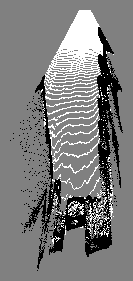
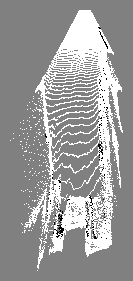
feat: add option to use pointcloud slice as obstacle in -> 2d conversion

diff --git a/mapper.py b/mapper.py
@@ -420,6 +420,33 @@ def save_pointcloud_to_ply(points, filename):
         for p in points:
             f.write(f'{p[0]} {p[1]} {p[2]}\n')
 
+def _parse_obstacle_threshold(obstacle_threshold):
+    """
+    Parse obstacle threshold configuration.
+
+    Args:
+        obstacle_threshold: Either a single numeric value (scalar threshold)
+            or a 2-element iterable (min_height, max_height).
+
+    Returns:
+        tuple[str, float | tuple[float, float]]:
+            ("scalar", threshold) or ("range", (min_height, max_height)).
+    """
+    if isinstance(obstacle_threshold, (int, float, np.integer, np.floating)):
+        return "scalar", float(obstacle_threshold)
+
+    if isinstance(obstacle_threshold, (tuple, list, np.ndarray)) and len(obstacle_threshold) == 2:
+        min_height = float(obstacle_threshold[0])
+        max_height = float(obstacle_threshold[1])
+        if min_height > max_height:
+            min_height, max_height = max_height, min_height
+        return "range", (min_height, max_height)
+
+    raise TypeError(
+        "obstacle_threshold must be a numeric value or a 2-element range "
+        "(min_height, max_height)."
+    )
+
 def pointcloud_to_occupancy_grid(pointcloud, grid_size, grid_resolution, height_range=(-0.5, 2.0), obstacle_threshold=0.1, use_data_bounds=True, padding=0.5):
     """
     Convert a 3D point cloud to a 2D occupancy grid.
@@ -429,7 +456,9 @@ def pointcloud_to_occupancy_grid(pointcloud, grid_size, grid_resolution, height_
         grid_size (tuple): (width, height) of the occupancy grid in meters. Used only when use_data_bounds=False.
         grid_resolution (float): Size of each grid cell in meters.
         height_range (tuple): (min, max) height to consider for obstacles/freespace (relative to camera Y).
-        obstacle_threshold (float): Height threshold to consider a cell occupied.
+        obstacle_threshold (float | int | tuple | list):
+            Either a single height threshold (occupied if height > threshold)
+            or a 2-value range (occupied if min_height <= height <= max_height).
         use_data_bounds (bool): If True, compute grid bounds from point cloud data (mirrors pointcloud_to_occupancy_grid.py).
         padding (float): Padding (meters) to add around data bounds when use_data_bounds=True.
     
@@ -521,9 +550,16 @@ def pointcloud_to_occupancy_grid(pointcloud, grid_size, grid_resolution, height_
     np.maximum.at(height_grid_flat, flat_indices, valid_y)
     height_grid = height_grid_flat.reshape(grid_h, grid_w)
 
-    # Mark occupied cells (cells with obstacles above threshold)
-    occupancy_grid[height_grid > obstacle_threshold] = 1
-    occupancy_grid[height_grid <= obstacle_threshold] = 0
+    # Mark occupied cells using scalar threshold or inclusive height range
+    threshold_mode, threshold_value = _parse_obstacle_threshold(obstacle_threshold)
+    if threshold_mode == "scalar":
+        occupied_mask = height_grid > threshold_value
+    else:
+        min_height, max_height = threshold_value
+        occupied_mask = (height_grid >= min_height) & (height_grid <= max_height)
+
+    occupancy_grid[occupied_mask] = 1
+    occupancy_grid[~occupied_mask] = 0
 
     # Mark cells with no data as unknown
     visited_flat = np.zeros(grid_h * grid_w, dtype=bool)

diff --git a/example_single_center_multiview.py b/example_single_center_multiview.py
@@ -14,7 +14,8 @@ from mapper import (
     image_to_3d_pointcloud,
     pointcloud_to_occupancy_grid,
     _process_occupancy_grid,
-    visualize_occupancy_grid
+    visualize_occupancy_grid,
+    save_pointcloud_to_ply,
 )
 
 from frontier_utils import (
@@ -109,7 +110,7 @@ def main():
         # ('images_surroundings/min_88.jpeg', convert_angle_180_to_360(-88)),
         ('images_surroundings/min_141.jpeg', convert_angle_180_to_360(-141)),
         # ('images_surroundings/plus_149.jpeg', convert_angle_180_to_360(149)),
-        ('images_surroundings/plus_157.jpeg', convert_angle_180_to_360(157)),
+        # ('images_surroundings/plus_157.jpeg', convert_angle_180_to_360(157)),
     ]
     
     # 2. Load Model
@@ -125,17 +126,19 @@ def main():
         print("Error: Could not read image.")
         return
     h, w = dummy_img.shape[:2]
+    
     intrinsics = {
-        'fx': 470.4 * 1.5,
-        'fy': 470.4 * 1.5,
-        'cx': w / 2.0,
-        'cy': h / 2.0
+        "fx": 589.54200724,
+        "fy": 589.80048532,
+        "cx": 328.93066342,
+        "cy": 200.86625768 * 0.85,
     }
 
     grid_size = (10.0, 15.0)
     resolution = 0.05
     height_range = (-0.5, 2.0)
-    obstacle_threshold = 0.8
+    obstacle_threshold = 0.5
+    # obstacle_threshold = (0.4, 0.6) # Optional: use (min_height, max_height)
 
     # Initialize combined grid (centered, fixed size)
     grid_w = int(np.ceil(grid_size[0] / resolution))
@@ -158,9 +161,6 @@ def main():
         points = image_to_3d_pointcloud(rgb, intrinsics, model=model)
 
         pointcloud_trimmed = _trim_3d_pointcloud(points, 20.0)
-        # Preserve robot origin by using forward-positive Z with fixed grid bounds.
-        pointcloud_trimmed[:, 2] = -pointcloud_trimmed[:, 2]
-        pointcloud_trimmed[:, 0] = -pointcloud_trimmed[:, 0] # Flip X to match right-positive convention
 
         # Convert Point Cloud -> Occupancy Grid (camera frame)
         grid = pointcloud_to_occupancy_grid(
@@ -173,7 +173,8 @@ def main():
         )
 
         # Process (Refine)
-        processed_grid = _process_occupancy_grid(grid)
+        # processed_grid = _process_occupancy_grid(grid)
+        processed_grid = grid
 
         # Visualize per-frame raw and processed grids (mirrors example_usage)
         raw_vis = visualize_occupancy_grid(grid)

diff --git a/example_usage.py b/example_usage.py
@@ -153,7 +153,8 @@ def main():
     grid_size = (10.0, 15.0)        # (width, height) in meters
     grid_resolution = 0.05          # 5cm per cell
     height_range = (-0.5, 2.0)      # Consider obstacles from -0.5m to 2.0m
-    obstacle_threshold = 0.1        # Height threshold for obstacles
+    # obstacle_threshold = 0.1        # Height threshold for obstacles
+    obstacle_threshold = (0.4, 0.6) # Optional: use (min_height, max_height) for more precise classification
     
     occupancy_grid = pointcloud_to_occupancy_grid(
         pointcloud=pointcloud_trimmed,
@@ -174,7 +175,8 @@ def main():
     print("STEP 5: Processing Occupancy Grid (Morphological Operations)")
     print("=" * 60)
     
-    processed_grid = _process_occupancy_grid(occupancy_grid)
+    # processed_grid = _process_occupancy_grid(occupancy_grid)
+    processed_grid = occupancy_grid
     
     print(f"Processed grid statistics:")
     print(f"  Free cells: {np.sum(processed_grid == 0)}")
